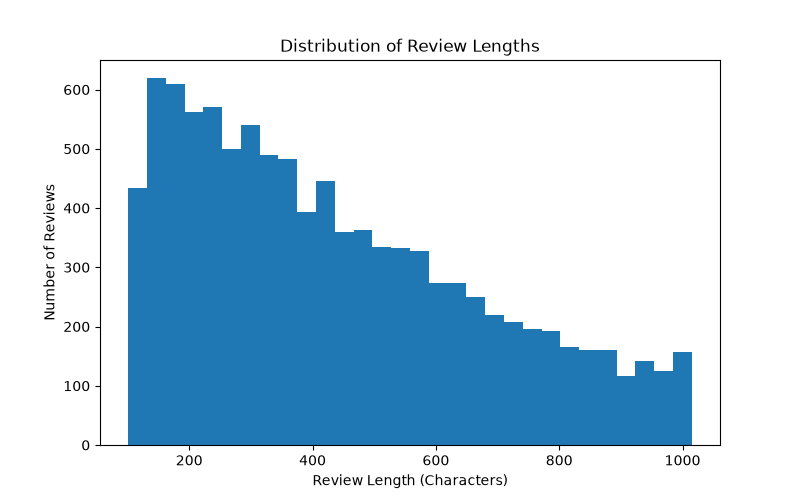
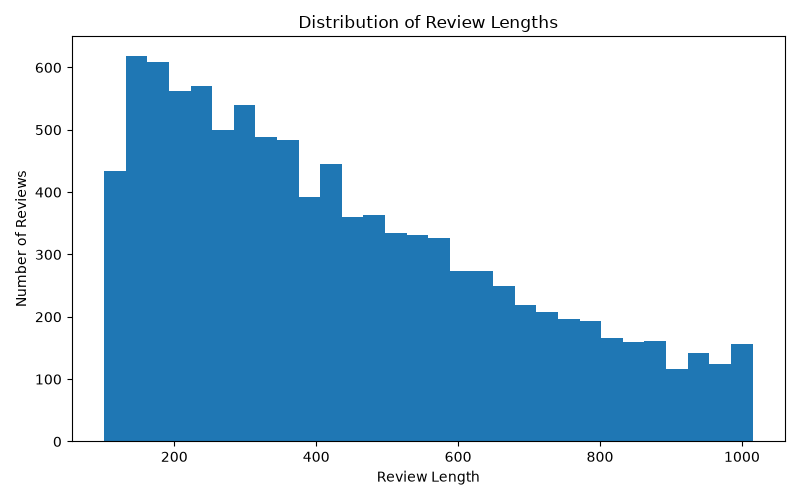
Add

diff --git a/data_analysis.py b/data_analysis.py
@@ -1,10 +1,125 @@
 import pandas as pd
 import matplotlib.pyplot as plt
 import seaborn as sns
+import re
+import nltk
+import pandas as pd
+import matplotlib.pyplot as plt
+import seaborn as sns
+import re
+
+import nltk
+from nltk.corpus import stopwords
+from nltk.tokenize import word_tokenize
+from nltk.stem import PorterStemmer
+nltk.download("punkt")
+nltk.download("punkt_tab")
+nltk.download("stopwords")
+from sklearn.feature_extraction.text import TfidfVectorizer
+from sklearn.model_selection import train_test_split
+from sklearn.linear_model import LogisticRegression
+from sklearn.metrics import (
+    accuracy_score,
+    classification_report,
+    confusion_matrix
+)
+
+stop_words = set(stopwords.words("english"))
+
+stemmer = PorterStemmer()
+
+# =====================================================
+# Function: Clean Review Text
+# =====================================================
+
+def clean_text(text):
+
+    # Convert to lowercase
+    text = text.lower()
+
+    # Remove punctuation and numbers
+    text = re.sub(r"[^a-zA-Z\s]", "", text)
+
+    # Tokenization
+    words = word_tokenize(text)
+
+    # Remove stopwords and apply stemming
+    cleaned_words = []
+
+    for word in words:
+
+        if word not in stop_words:
+
+            cleaned_words.append(
+                stemmer.stem(word)
+            )
+
+    # Join words back into a sentence
+    return " ".join(cleaned_words)
+
+
+
+# =====================================
+# Feature Extraction using TF-IDF
+# =====================================
+
+vectorizer = TfidfVectorizer(
+    stop_words="english",
+    max_features=5000
+)
+
+X = vectorizer.fit_transform(df["Clean_Review"])
+
+
+y = df["Sentiment"].map({
+    "Negative": 0,
+    "Positive": 1
+})
+
+X_train, X_test, y_train, y_test = train_test_split(
+    X,
+    y,
+    test_size=0.20,
+    random_state=42
+)
+
+
+model = LogisticRegression(
+    max_iter=1000
+)
+
+model.fit(X_train, y_train)
+
+print("Model trained successfully!")
+
+
+y_pred = model.predict(X_test)
+
+
+accuracy = accuracy_score(y_test, y_pred)
+
+print("\nAccuracy:")
+print(f"{accuracy * 100:.2f}%")
+
+
+
+print("\nClassification Report:\n")
+
+print(classification_report(y_test, y_pred))
+
+
+cm = confusion_matrix(y_test, y_pred)
+
+print("\nConfusion Matrix:\n")
+print(cm)
+# =====================================================
+# Load Dataset
+# =====================================================
 
 reviews = []
 
 with open("dataset/train.ft.txt", "r", encoding="utf-8") as file:
+
     for i, line in enumerate(file):
 
         if i == 10000:
@@ -16,41 +131,61 @@ with open("dataset/train.ft.txt", "r", encoding="utf-8") as file:
 
         reviews.append([sentiment, review])
 
+
+# =====================================================
 # Create DataFrame
+# =====================================================
+
 df = pd.DataFrame(reviews, columns=["Sentiment", "Review"])
 
-print("Dataset Loaded Successfully!\n")
+print("=" * 60)
+print("Dataset Loaded Successfully!")
+print("=" * 60)
+
 print(df.head())
 
-print("\nShape of Dataset:")
+
+# =====================================================
+# Basic Dataset Information
+# =====================================================
+
+print("\nShape of Dataset")
 print(df.shape)
 
-print("\nColumn Names:")
+print("\nColumn Names")
 print(df.columns)
 
-print("\nDataset Information:")
+print("\nDataset Information")
 df.info()
 
-print("\nMissing Values:")
+print("\nMissing Values")
 print(df.isnull().sum())
 
-print("\nDuplicate Reviews:")
+print("\nDuplicate Reviews")
 print(df.duplicated().sum())
 
-# Convert labels to readable text
+
+# =====================================================
+# Convert Labels
+# =====================================================
+
 df["Sentiment"] = df["Sentiment"].replace({
     "__label__1": "Negative",
     "__label__2": "Positive"
 })
 
-print("\nUpdated Dataset:")
+print("\nUpdated Dataset")
 print(df.head())
 
-print("\nSentiment Count:")
+
+# =====================================================
+# Sentiment Distribution
+# =====================================================
+
+print("\nSentiment Count")
 print(df["Sentiment"].value_counts())
 
-# Create visualization
-plt.figure(figsize=(6, 4))
+plt.figure(figsize=(6,4))
 
 sns.countplot(data=df, x="Sentiment")
 
@@ -58,37 +193,80 @@ plt.title("Sentiment Distribution")
 plt.xlabel("Sentiment")
 plt.ylabel("Number of Reviews")
 
+plt.tight_layout()
+
 plt.savefig("images/sentiment_distribution.png")
+
 plt.show()
 
-# Calculate review length
+
+# =====================================================
+# Review Length Analysis
+# =====================================================
+
 df["Review_Length"] = df["Review"].apply(len)
 
-print("\nReview Length:")
+print("\nReview Length")
 print(df["Review_Length"].head())
 
-df["Review"].apply(len)
+print("\nReview Length Statistics")
 
-print("\nReview Length Statistics:")
 print(df["Review_Length"].describe())
 
-plt.figure(figsize=(8, 5))
+
+# Histogram
+
+plt.figure(figsize=(8,5))
 
 plt.hist(df["Review_Length"], bins=30)
 
 plt.title("Distribution of Review Lengths")
-plt.xlabel("Review Length (Characters)")
+plt.xlabel("Review Length")
 plt.ylabel("Number of Reviews")
 
+plt.tight_layout()
+
 plt.savefig("images/review_length_distribution.png")
+
 plt.show()
 
 
-plt.figure(figsize=(8, 5))
+# Boxplot
 
-sns.boxplot(data=df, x="Sentiment", y="Review_Length")
+plt.figure(figsize=(8,5))
+
+sns.boxplot(
+    data=df,
+    x="Sentiment",
+    y="Review_Length"
+)
 
 plt.title("Review Length by Sentiment")
 
+plt.tight_layout()
+
 plt.savefig("images/review_length_boxplot.png")
+
 plt.show()
+
+
+# =====================================================
+# Text Preprocessing
+# =====================================================
+
+df["Clean_Review"] = df["Review"].apply(clean_text)
+
+print("\nOriginal Review:")
+print(df["Review"].iloc[0])
+
+print("\nClean Review:")
+print(df["Clean_Review"].iloc[0])
+
+
+# =====================================================
+# Save Clean Dataset
+# =====================================================
+
+df.to_csv("dataset/cleaned_reviews.csv", index=False)
+
+print("\nCleaned dataset saved successfully!")
